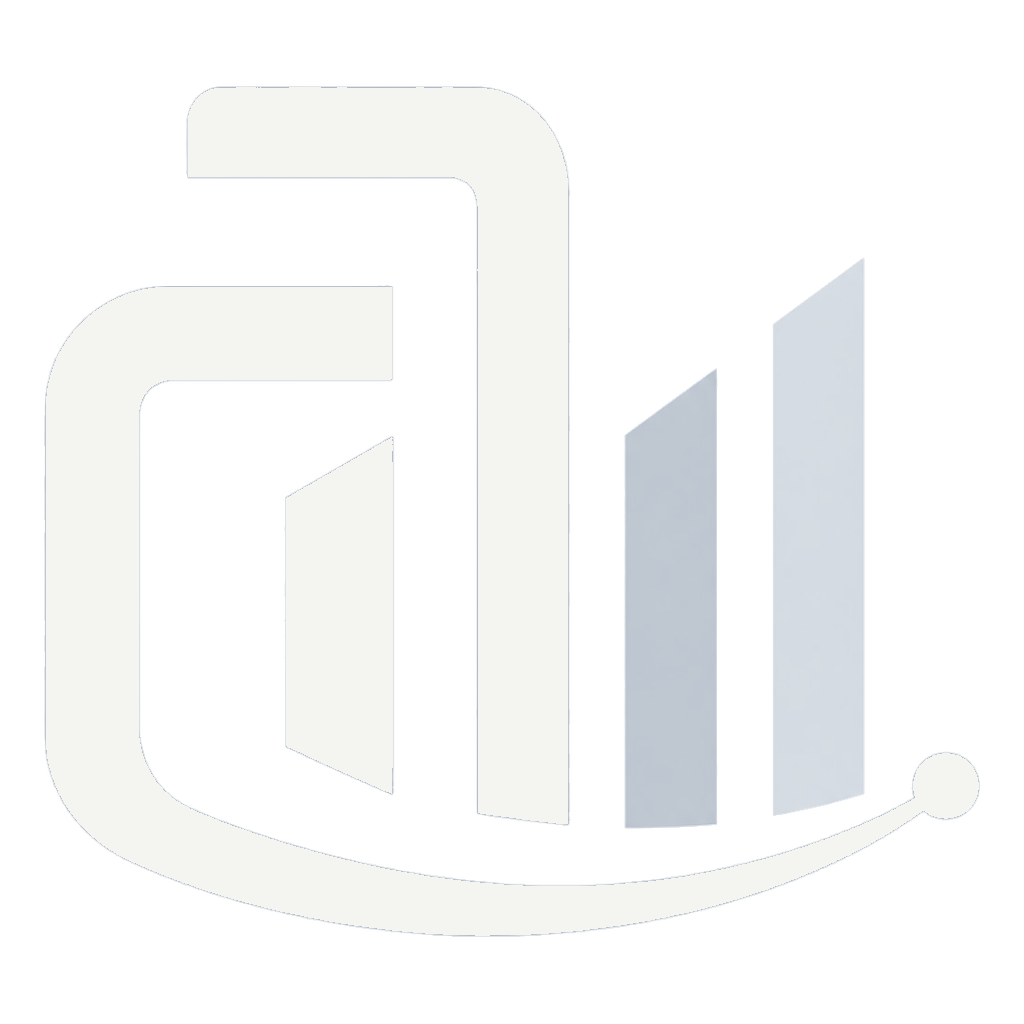
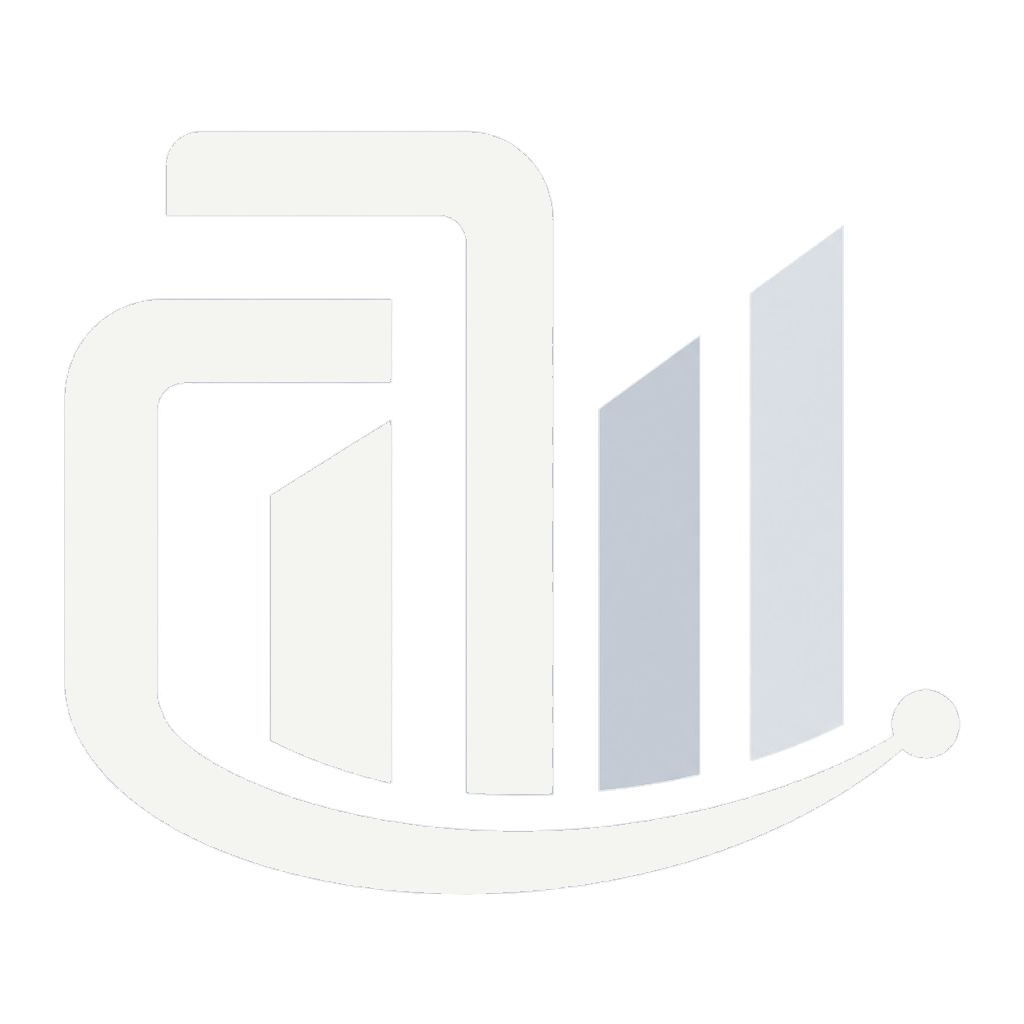
Ship the new CIT mark at a larger lockup size and put the UASG news photograph on the card.
The construction-game infographic stays in the article body so labels are not cropped; seed overlay moves that former hero in hosted CMS records.

Changed region(s): [[0.5625, 0.2188, 0.8438, 0.8125], [0.5312, 0.7812, 0.5625, 0.8125]]

diff --git a/src/content/insights.ts b/src/content/insights.ts
@@ -1,5 +1,6 @@
 import {
   asaesisMethodIllustration,
+  constructionGameEditorial,
   constructionGameInfographic,
   socialSystemsIllustration,
   testingInsteadIllustration,
@@ -184,7 +185,7 @@ export const insights: Insight[] = [
   {
     slug: "kogato-praktikata-vleze-v-universiteta",
     type: "news",
-    heroMediaId: constructionGameInfographic.id,
+    heroMediaId: constructionGameEditorial.id,
     title: {
       bg: "Когато практиката влезе в университета: Трето издание на „Българска строителна игра“",
       en: "When practice enters the university: Third edition of the Bulgarian Construction Game",
@@ -199,6 +200,7 @@ export const insights: Insight[] = [
         "## Фокус върху инфраструктурата",
         "Фокусът на тазгодишното издание беше инфраструктурата. Участниците симулираха общинска инвестиционна програма по строителството и контрол при реализирането на най-масовите обществени инвестиции, а именно строителството на нова улична мрежа със съпътстваща водоснабдителна и канализационна инфраструктура, както и реконструкцията на съществуващи улици и водопроводи.",
         "Участниците формираха екипи, в които извършваха типични дейности за възложителите, строителните компании и фирмите, осъществяващи строителен надзор. Поетапно различните екипи трябваше да определят необходимите за договаряне количества СМР, да се формират анализни цени и да се остойности дейността по контрол на строителния процес. Последва договаряне между участниците и сключване на споразумения. По време на процеса не липсваха и изненади, като увеличение на горивата вследствие на международната политика, което се отрази на разходите за механизация и част от строителните продукти. Накрая обектите бяха издадени качествено и в срок с необходимата документация, което позволи те да бъдат официално открити.",
+        constructionGameInfographic.id,
         UASG_CONSTRUCTION_GAME_VIDEO,
         "## Експертна подкрепа от бизнеса и институциите",
         "За да бъде процесът най-реалистичен, екипите имаха своите инструктори.",
@@ -218,6 +220,7 @@ export const insights: Insight[] = [
         "## Focus on infrastructure",
         "This year's edition focused on infrastructure. Participants simulated a municipal investment programme for construction and for control in delivering the most common public investments: the construction of a new street network with accompanying water-supply and sewerage infrastructure, and the reconstruction of existing streets and water mains.",
         "Participants formed teams that carried out typical work of clients, construction companies and construction-supervision firms. In stages, the different teams had to determine the construction and assembly quantities to be contracted, form analytical unit prices, and cost the activity of controlling the construction process. Negotiation between the participants followed, and agreements were signed. The process also included surprises, such as a fuel-price increase driven by international policy, which affected mechanisation costs and some construction products. In the end the works were handed over to quality and on time, with the required documentation, which made it possible to open them officially.",
+        constructionGameInfographic.id,
         UASG_CONSTRUCTION_GAME_VIDEO,
         "## Expert support from business and institutions",
         "To make the process as realistic as possible, the teams had instructors.",

diff --git a/tests/news-fixtures.test.ts b/tests/news-fixtures.test.ts
@@ -44,6 +44,7 @@ describe("demo news fixtures", () => {
       "media-campus-facade",
       "media-campus-hall",
       "media-bulgarian-construction-game",
+      "media-bulgarian-construction-game-editorial",
       "media-social-systems-as-algorithms",
       "media-asaesis-from-framework-to-method",
       "media-testing-instead-of-assuming",
@@ -116,14 +117,14 @@ describe("demo news fixtures", () => {
     const uasg = overlaid.insights.find((item) => item.slug === UASG_SLUG);
     const original = seeded.insights.find((item) => item.slug === UASG_SLUG);
     expect(uasg).toEqual(original);
-    expect(uasg?.heroMediaId).toBe("media-bulgarian-construction-game");
+    expect(uasg?.heroMediaId).toBe("media-bulgarian-construction-game-editorial");
 
     const blackSea = news.find((item) => item.slug === "data-for-a-more-resilient-black-sea");
     const resolved = resolveNewsMedia(blackSea!, overlaid.media, "en");
     expect(resolved?.src).toBe(devNewsFixturePhotos.coastalWaterSampling.src);
     expect(resolved?.alt).toContain("Generated fixture");
     expect(resolveNewsMedia(recordToInsight(uasg!), overlaid.media, "bg")?.src).toBe(
-      "/images/news/bulgarian-construction-game.jpg",
+      "/images/news/bulgarian-construction-game-editorial.jpg",
     );
   });
 
@@ -195,6 +196,30 @@ describe("demo news fixtures", () => {
     expect(restored.insights[0]?.heroMediaId).toBe(note.heroMediaId);
     expect(restored.insights[0]?.titleEn).toBe("CMS title");
     expect(restored.media.map((item) => item.id)).toEqual(seeded.media.map((item) => item.id));
+  });
+
+  it("moves a former seed hero into the body when seed now uses a new card image", () => {
+    const seeded = seedStore();
+    const uasg = seeded.insights.find((item) => item.slug === UASG_SLUG)!;
+    const hosted = {
+      insights: [
+        {
+          ...uasg,
+          heroMediaId: "media-bulgarian-construction-game",
+          bodyBg: uasg.bodyBg.filter((block) => block !== "media-bulgarian-construction-game"),
+          bodyEn: uasg.bodyEn.filter((block) => block !== "media-bulgarian-construction-game"),
+          titleEn: "CMS title",
+        },
+      ],
+      media: [] as ReturnType<typeof seedStore>["media"],
+    };
+    const restored = applyMissingSeedContent(hosted);
+    expect(restored.insights[0]?.titleEn).toBe("CMS title");
+    expect(restored.insights[0]?.heroMediaId).toBe("media-bulgarian-construction-game-editorial");
+    expect(restored.insights[0]?.bodyBg).toContain("media-bulgarian-construction-game");
+    expect(restored.insights[0]?.bodyEn).toContain("media-bulgarian-construction-game");
+    const videoAt = restored.insights[0]!.bodyBg.indexOf("https://www.youtube.com/watch?v=kfV3dGGHO5s");
+    expect(restored.insights[0]?.bodyBg[videoAt - 1]).toBe("media-bulgarian-construction-game");
   });
 
   it("does not strip saved fixture records when overlay is disabled", () => {

diff --git a/src/lib/cms/seed-overlay.ts b/src/lib/cms/seed-overlay.ts
@@ -1,3 +1,4 @@
+import { parseLibraryMediaBlock } from "@/lib/news-presentation";
 import { seedStore } from "./serialize";
 import type { InsightRecord, MediaRecord } from "./types";
 
@@ -19,14 +20,49 @@ export function missingSeedContent(data: { insights: InsightRecord[]; media: Med
   };
 }
 
+function bodyMediaIds(blocks: string[]): string[] {
+  return blocks.flatMap((block) => {
+    const id = parseLibraryMediaBlock(block);
+    return id ? [id] : [];
+  });
+}
+
+function insertMissingMediaIds(body: string[], missing: string[]): string[] {
+  if (!missing.length) return body;
+  const next = [...body];
+  for (const id of missing) {
+    if (next.includes(id)) continue;
+    const youtubeAt = next.findIndex((block) => /youtube\.com|youtu\.be/i.test(block));
+    next.splice(youtubeAt >= 0 ? youtubeAt : next.length, 0, id);
+  }
+  return next;
+}
+
 export function applyMissingSeedContent<T extends { insights: InsightRecord[]; media: MediaRecord[] }>(data: T): T {
   const seeded = seedStore();
   const extras = missingSeedContent(data);
   const seedBySlug = new Map(seeded.insights.map((item) => [item.slug, item]));
   const insights = data.insights.map((record) => {
     const seed = seedBySlug.get(record.slug);
-    if (!seed?.heroMediaId || record.heroMediaId) return record;
-    return { ...record, heroMediaId: seed.heroMediaId };
+    if (!seed) return record;
+    let next = record;
+    if (seed.heroMediaId && !next.heroMediaId) {
+      next = { ...next, heroMediaId: seed.heroMediaId };
+    }
+    const seedBodyIds = bodyMediaIds(seed.bodyBg);
+    const missingBg = seedBodyIds.filter((id) => !next.bodyBg.includes(id));
+    const missingEn = bodyMediaIds(seed.bodyEn).filter((id) => !next.bodyEn.includes(id));
+    if (missingBg.length || missingEn.length) {
+      next = {
+        ...next,
+        bodyBg: insertMissingMediaIds(next.bodyBg, missingBg),
+        bodyEn: insertMissingMediaIds(next.bodyEn, missingEn),
+      };
+    }
+    if (next.heroMediaId && seed.heroMediaId && next.heroMediaId !== seed.heroMediaId && seedBodyIds.includes(next.heroMediaId)) {
+      next = { ...next, heroMediaId: seed.heroMediaId };
+    }
+    return next;
   });
   return {
     ...data,

diff --git a/src/lib/cms/serialize.ts b/src/lib/cms/serialize.ts
@@ -2,6 +2,7 @@ import { insights } from "@/content/insights";
 import {
   asaesisMethodIllustration,
   campusPhotos,
+  constructionGameEditorial,
   constructionGameInfographic,
   socialSystemsIllustration,
   testingInsteadIllustration,
@@ -168,7 +169,7 @@ export function seedMedia(): MediaRecord[] {
       altBg: constructionGameInfographic.alt.bg,
       altEn: constructionGameInfographic.alt.en,
       source: "Infographic supplied for the UASG construction-game news article. Idea and concept: Dr Eng. Stanislav Darachev.",
-      usageNote: "Editorial figure for the confirmed UASG news article. Does not depict CIT activity or results.",
+      usageNote: "In-body figure for the confirmed UASG news article. Does not depict CIT activity or results.",
       copyrightNote: "© 2025. Idea and concept: Dr Eng. Stanislav Darachev.",
       temporary: false,
       replacementRequired: false,
@@ -176,6 +177,23 @@ export function seedMedia(): MediaRecord[] {
       byteSize: constructionGameInfographic.byteSize,
       width: constructionGameInfographic.width,
       height: constructionGameInfographic.height,
+      createdAt: ts,
+      updatedAt: ts,
+    },
+    {
+      id: constructionGameEditorial.id,
+      publicUrl: constructionGameEditorial.src,
+      title: "Bulgarian Construction Game editorial photograph",
+      altBg: constructionGameEditorial.alt.bg,
+      altEn: constructionGameEditorial.alt.en,
+      source: "Generated editorial photograph supplied for the UASG construction-game news card. Does not depict the event or CIT activity.",
+      usageNote: "Card/hero for kogato-praktikata-vleze-v-universiteta. Generated image; not the event, CIT staff or results.",
+      temporary: false,
+      replacementRequired: false,
+      mimeType: constructionGameEditorial.mimeType,
+      byteSize: constructionGameEditorial.byteSize,
+      width: constructionGameEditorial.width,
+      height: constructionGameEditorial.height,
       createdAt: ts,
       updatedAt: ts,
     },

diff --git a/src/content/media.ts b/src/content/media.ts
@@ -47,6 +47,23 @@ export const constructionGameInfographic = {
 } as const;
 
 /**
+ * Generated editorial photograph for the card/hero of the confirmed UASG
+ * construction-game news article. It does not depict the event, CIT staff or results.
+ */
+export const constructionGameEditorial = {
+  id: "media-bulgarian-construction-game-editorial",
+  src: "/images/news/bulgarian-construction-game-editorial.jpg",
+  width: 1024,
+  height: 576,
+  byteSize: 114901,
+  mimeType: "image/jpeg",
+  alt: {
+    bg: "Генерирана илюстрация: работен плот с каска, чертежи и книги пред изглед към град и планина. Не изобразява събитието „Българска строителна игра“, екип или дейност на Центъра.",
+    en: "Generated illustration: a desk with a hard hat, drawings and books facing a city and mountain view. It does not depict the Bulgarian Construction Game, Center staff or activity.",
+  } satisfies L,
+} as const;
+
+/**
  * Editorial illustration for the confirmed seed concept note
  * `why-social-systems-behave-like-algorithms`.
  * Generated image; it does not depict CIT staff, a Center operations room, or results.

diff --git a/tests/news-carousel.test.ts b/tests/news-carousel.test.ts
@@ -10,14 +10,14 @@ describe("news carousel presentation", () => {
     expect(carouselNavVisible(2)).toBe(true);
   });
 
-  it("attaches the supplied construction-game infographic to the confirmed UASG article", () => {
+  it("attaches the generated editorial photograph to the confirmed UASG article card", () => {
     const article = insights.find((i) => i.slug === "kogato-praktikata-vleze-v-universiteta");
     expect(article).toBeDefined();
-    expect(article?.heroMediaId).toBe("media-bulgarian-construction-game");
+    expect(article?.heroMediaId).toBe("media-bulgarian-construction-game-editorial");
     const resolved = resolveNewsMedia(article!, seedMedia(), "bg");
-    expect(resolved?.src).toBe("/images/news/bulgarian-construction-game.jpg");
-    expect(resolved?.contain).toBe(true);
-    expect(resolved?.alt).toContain("Българска строителна игра");
+    expect(resolved?.src).toBe("/images/news/bulgarian-construction-game-editorial.jpg");
+    expect(resolved?.contain).toBeFalsy();
+    expect(resolved?.alt).toContain("Генерирана илюстрация");
   });
 
   it("resolves library media when a heroMediaId is present", () => {

diff --git a/src/app/admin/login/page.tsx b/src/app/admin/login/page.tsx
@@ -1,5 +1,6 @@
 import { cmsMode, hostedDemoStore } from "@/lib/cms/mode";
 import { loginAction } from "../actions";
+import { Mark } from "@/components/layout/Logo";
 
 export default function AdminLoginPage({ searchParams }: { searchParams: Promise<{ error?: string }> }) {
   return <LoginForm searchParams={searchParams} />;
@@ -10,7 +11,8 @@ async function LoginForm({ searchParams }: { searchParams: Promise<{ error?: str
   const mode = cmsMode();
   return (
     <main className="admin-main" style={{ maxWidth: 28 * 16, margin: "10vh auto" }}>
-      <h1 style={{ fontFamily: "var(--font-source-serif)", fontSize: "2rem", marginBottom: "0.5rem" }}>CIT administration</h1>
+      <Mark size={58} />
+      <h1 style={{ fontFamily: "var(--font-source-serif)", fontSize: "2rem", margin: "1rem 0 0.5rem" }}>CIT administration</h1>
       <p className="admin-muted">Structured content only. The public design is not edited here.</p>
       {mode === "seed" ? (
         <p className="admin-card" style={{ marginTop: "1.5rem" }}>

diff --git a/src/app/admin/(console)/layout.tsx b/src/app/admin/(console)/layout.tsx
@@ -3,6 +3,7 @@ import { redirect } from "next/navigation";
 import type { ReactNode } from "react";
 import { getAdminSession } from "@/lib/auth/session";
 import { cmsMode, hostedDemoStore } from "@/lib/cms/mode";
+import { Mark } from "@/components/layout/Logo";
 
 const nav = [
   { href: "/admin", label: "Dashboard" },
@@ -21,9 +22,12 @@ export default async function ConsoleLayout({ children }: { children: ReactNode 
   return (
     <div className="admin-shell">
       <aside className="admin-nav">
-        <p className="admin-status" style={{ padding: "0 0.5rem 1rem" }}>
-          CIT · {cmsMode()}
-        </p>
+        <div style={{ padding: "0 0.5rem 1rem" }}>
+          <Mark size={43} />
+          <p className="admin-status" style={{ marginTop: "0.75rem" }}>
+            CIT · {cmsMode()}
+          </p>
+        </div>
         <nav aria-label="Admin">
           {nav.map((item) => (
             <Link key={item.href} href={item.href} style={{ display: "block", padding: "0.45rem 0.6rem" }}>

diff --git a/src/components/layout/Logo.tsx b/src/components/layout/Logo.tsx
@@ -7,8 +7,8 @@ import { cn } from "@/lib/cn";
 import markColor from "../../../public/brand/cit-mark.png";
 import markWhite from "../../../public/brand/cit-mark-white.png";
 
-/** Supplied CIT mark from Logo/Logo.jpg — colour on paper, light knockout on marine. */
-export function Mark({ className, size = 40, tone = "ink" }: { className?: string; size?: number; tone?: "ink" | "on-dark" }) {
+/** CIT mark: colour on paper, light knockout on marine. */
+export function Mark({ className, size = 48, tone = "ink" }: { className?: string; size?: number; tone?: "ink" | "on-dark" }) {
   return (
     <Image
       src={tone === "ink" ? markColor : markWhite}
@@ -26,7 +26,7 @@ export function Logo({
   locale,
   tone = "ink",
   className,
-  markSize = 40,
+  markSize = 48,
   layout = "compact",
 }: {
   locale: Locale;

diff --git a/tests/news-seed.test.ts b/tests/news-seed.test.ts
@@ -23,6 +23,7 @@ describe("UASG construction-game news seed", () => {
       expect(index).toBeGreaterThan(0);
       expect(index).toBeLessThan(body.length - 1);
       expect(parseYouTubeBlock(body[index]!)).toEqual({ id: "kfV3dGGHO5s" });
+      expect(body[index - 1]).toBe("media-bulgarian-construction-game");
     }
   });
 
@@ -34,7 +35,7 @@ describe("UASG construction-game news seed", () => {
     expect(article?.source.en).toContain("2 December 2025");
     expect(article?.date).toBe("2025-12-02");
     expect(article?.author).toBeUndefined();
-    expect(article?.heroMediaId).toBe("media-bulgarian-construction-game");
+    expect(article?.heroMediaId).toBe("media-bulgarian-construction-game-editorial");
   });
 
   it("keeps news out of the Insights sitemap fallback set", () => {

diff --git a/src/components/layout/SiteHeader.tsx b/src/components/layout/SiteHeader.tsx
@@ -29,7 +29,7 @@ export function SiteHeader({ locale }: { locale: Locale }) {
   return (
     <header className="sticky top-0 z-50 border-b border-line bg-paper [--header-h:4.75rem] md:[--header-h:5.25rem]">
       <Container className="flex h-[var(--header-h)] items-center justify-between gap-6">
-        <Logo locale={locale} layout="lockup" markSize={48} className="min-w-0 shrink xl:flex-none" />
+        <Logo locale={locale} layout="lockup" markSize={58} className="min-w-0 shrink xl:flex-none" />
         <DesktopNav locale={locale} links={links} label={m.primaryNav} pathname={pathname} onHome={onHome} spyKey={spyKey} />
         <div className="flex items-center gap-4">
           <LanguageSwitcher current={locale} label={m.language} className="hidden xl:flex" />

diff --git a/src/app/[locale]/opengraph-image.tsx b/src/app/[locale]/opengraph-image.tsx
@@ -42,7 +42,7 @@ export default async function OpenGraphImage({ params }: { params: Promise<{ loc
         }}
       >
         <div style={{ display: "flex", alignItems: "center", gap: 24 }}>
-          <img src={markSrc} width={96} height={96} alt="" />
+          <img src={markSrc} width={115} height={115} alt="" />
           <div style={{ display: "flex", flexDirection: "column" }}>
             <div style={{ fontFamily: "Serif", fontSize: 40, lineHeight: 1.1 }}>{site.name[locale]}</div>
             <div style={{ fontSize: 20, letterSpacing: 2, color: "#6a737d", marginTop: 10 }}>{site.anchorShort[locale].toUpperCase()}</div>
